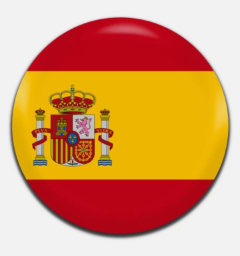
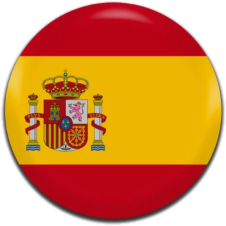
Nuevo estilo de competición con los personajes de fondo y escudos oficiales
- Personajes de cada jugador como fondos transparentes en podio, tabla, plantilla, fichas y comparador
- Japón con acento azul Blue Lock
- Escudos oficiales en PNG transparente para los 11 equipos (Japón con el de la JFA)
- Cambio de tema animado y transiciones suaves

diff --git a/index.html b/index.html
@@ -517,6 +517,87 @@ body.arch #aviso,body.arch #next,body.arch #ins,body.arch .s2,body.arch #don{dis
 .ftl{display:flex;flex-wrap:wrap;justify-content:center;gap:8px 16px;margin-top:10px;font:700 14px "Barlow Condensed",sans-serif;text-transform:uppercase;letter-spacing:.08em}
 .ftl a,.ftl button{color:var(--acc);background:none;border:0;padding:0;cursor:pointer;font:inherit;text-transform:inherit;letter-spacing:inherit;text-decoration:none}
 .ftl span{color:var(--mute)}
+
+/* ===== v7: estilo de competición. Los personajes de cada jugador como fondos transparentes ===== */
+::selection{background:var(--acc);color:#fff}
+.art{position:relative;isolation:isolate;overflow:hidden}
+.art::before,.art::after{content:"";position:absolute;inset:0;z-index:-1;pointer-events:none}
+.art::before{background:var(--art,none) center 18%/cover no-repeat;transition:opacity .35s,transform .6s cubic-bezier(.2,.8,.2,1)}
+.art::after{background:linear-gradient(180deg,rgba(9,9,12,0) 30%,rgba(9,9,12,.94) 86%)}
+html[data-tema=claro] .art::after{background:linear-gradient(180deg,rgba(255,255,255,0) 30%,rgba(255,255,255,.95) 86%)}
+/* podio: el personaje ocupa la tarjeta */
+.pod{align-items:stretch}
+.pc.art{justify-content:flex-end;min-height:250px;padding-top:120px}
+.pc.art.p1{min-height:286px}
+.pc.art::before{opacity:.9;background-position:center 8%}
+.pc.art::after{background:linear-gradient(180deg,rgba(9,9,12,0) 38%,rgba(9,9,12,.95) 72%)}
+.pc.art .lg{width:54px;height:35px;border-radius:3px}
+.pc.art.p1 .lg{width:64px;height:41px}
+.pc.art:hover::before{transform:scale(1.05)}
+.pc.art .pn{position:absolute;top:8px;left:10px;font-size:26px;color:#fff;text-shadow:0 2px 8px #000}
+.pc.art.p1 .pn{color:var(--trophy)}
+.pc.art .lg{box-shadow:0 6px 16px -4px rgba(0,0,0,.7)}
+/* tabla: el personaje asoma a la derecha de cada fila */
+.main.art::before{left:auto;width:48%;opacity:.2;background-position:center 22%;-webkit-mask-image:linear-gradient(90deg,transparent,#000 70%);mask-image:linear-gradient(90deg,transparent,#000 70%)}
+.main.art::after{display:none}
+.main.art:hover::before{opacity:.42}
+html[data-tema=claro] .main.art::before{opacity:.16}
+/* jugadores: tarjetas de plantilla */
+#pl{background:none;border:0;box-shadow:none;overflow:visible;display:grid;gap:14px;-webkit-backdrop-filter:none;backdrop-filter:none}
+#pl .pj.art{border:1px solid var(--line);border-left:3px solid var(--acc);border-radius:3px;background:var(--panel);padding:18px 16px 16px;box-shadow:0 20px 40px -28px #000}
+#pl .pj.art::before{left:36%;opacity:.95;background-position:center 15%;-webkit-mask-image:linear-gradient(90deg,transparent,#000 55%),linear-gradient(180deg,#000 45%,transparent 80%);-webkit-mask-composite:source-in;mask-image:linear-gradient(90deg,transparent,#000 55%),linear-gradient(180deg,#000 45%,transparent 80%);mask-composite:intersect}
+#pl .pj.art::after{background:linear-gradient(90deg,var(--panel) 18%,transparent 62%)}
+#pl .pj.art[style] .av{display:none}
+#pl .pj.art .pjh{min-height:96px;align-items:flex-start}
+#pl .pj.art .pnm{font-size:38px;text-shadow:0 2px 12px rgba(0,0,0,.5)}
+#pl .pj.art .bio{max-width:66%;font-size:14px;line-height:1.4;color:var(--mute);display:-webkit-box;-webkit-line-clamp:4;-webkit-box-orient:vertical;overflow:hidden}
+#pl .pj.art .sg{position:relative;background:rgba(0,0,0,.35);border:1px solid var(--line);padding:8px 4px;border-radius:2px}
+html[data-tema=claro] #pl .pj.art .sg{background:rgba(255,255,255,.8)}
+#pl .pj.art:hover::before{transform:scale(1.03)}
+/* ficha: cabecera con el personaje */
+.fh.art{margin:-14px -14px 0;padding:170px 16px 16px;border-bottom:2px solid var(--acc)}
+.fh.art::before{opacity:.95}
+.fh.art .pnm{font-size:36px;text-shadow:0 2px 10px rgba(0,0,0,.6)}
+/* comparador: los dos jugadores frente a frente */
+.cmph .tm.art{min-height:190px;justify-content:flex-end;padding:10px 6px;border:1px solid var(--line);border-radius:3px}
+.cmph .tm.art::before{opacity:.9}
+.cmph .bal{font-size:46px}
+/* escudos: los PNG transparentes se ven enteros y sin recuadro blanco */
+.lg.esc,.lg.sm.esc,.lg.xs.esc,.lg.xl.esc,.pc .lg.esc,.pc.p1 .lg.esc,.mc .lg.esc,.main .lg.esc,.bm .lg.esc,.dq button .lg.esc{object-fit:contain;background:transparent;border-color:transparent;box-shadow:none;filter:drop-shadow(0 2px 4px rgba(0,0,0,.55))}
+html[data-tema=claro] .lg.esc{filter:drop-shadow(0 1px 2px rgba(0,0,0,.25))}
+.main .lg.esc{width:40px;height:40px}
+.lg.sm.esc{width:34px;height:34px}
+.lg.xs.esc{width:26px;height:24px}
+.mc .lg.esc{height:60px}
+.pc.art .lg.esc{width:52px;height:48px}.pc.art.p1 .lg.esc{width:62px;height:58px}
+.cmph .tm.art .lg.esc{width:48px;height:44px}.cmph .tm.art{padding-top:110px}
+.cmph .tm.art .lg{width:50px;height:32px;border-radius:3px}
+.cmph .tm.art::after{background:linear-gradient(180deg,rgba(9,9,12,0) 38%,rgba(9,9,12,.95) 74%)}
+.cmph .tm.art::before{background-position:center 8%}
+/* Japón: acento azul eléctrico (Blue Lock) */
+[data-art=ej].art{border-color:#2f6bff}
+[data-art=ej].art::after{background:linear-gradient(180deg,rgba(18,56,255,.12) 20%,rgba(4,10,46,.94) 86%)}
+#pl .pj[data-art=ej].art{border-left-color:#38e8ff;box-shadow:0 0 0 1px rgba(47,107,255,.35),0 20px 40px -24px rgba(18,56,255,.7)}
+#pl .pj[data-art=ej].art::after{background:linear-gradient(90deg,var(--panel) 18%,rgba(18,56,255,.12) 62%)}
+.main[data-art=ej].art::before{opacity:.28;filter:saturate(1.3)}
+.art[data-art=ej] .pnm+.tt::after{content:"BLUE LOCK";margin-left:8px;padding:1px 6px;border:1px solid #38e8ff;color:#38e8ff;font:700 11px "Barlow Condensed",sans-serif;letter-spacing:.14em;vertical-align:1px}
+/* barra inferior más limpia */
+nav{background:rgba(9,9,12,.88);-webkit-backdrop-filter:blur(16px) saturate(1.3);backdrop-filter:blur(16px) saturate(1.3)}
+html[data-tema=claro] nav{background:rgba(255,255,255,.9)}
+/* cambio de tema en círculo */
+::view-transition-old(root),::view-transition-new(root){animation:none;mix-blend-mode:normal}
+::view-transition-new(root){animation:vtc .6s cubic-bezier(.4,0,.2,1)}
+@keyframes vtc{from{clip-path:circle(0 at var(--vx,90%) var(--vy,40px))}to{clip-path:circle(150vmax at var(--vx,90%) var(--vy,40px))}}
+/* movimiento discreto */
+@media (prefers-reduced-motion:no-preference){
+html{scroll-behavior:smooth}
+main>section:not([hidden]){animation:secIn .4s cubic-bezier(.2,.8,.2,1) both}
+@keyframes secIn{from{opacity:0;transform:translateY(10px)}to{opacity:1;transform:none}}
+.main,.cta,.lnk,.chips button,nav button{transition:background-color .2s,color .2s,transform .15s}
+.cta:active,.lnk:active,.chips button:active,nav button:active,.pc:active{transform:scale(.97)}
+@supports (animation-timeline:view()){
+.row,.pj,.po,.gl,.fbox,.rc,.bc,.ts,.tl,.mc,.it,.rg,.pm{animation:rv linear both;animation-timeline:view();animation-range:entry 0% entry 55%}
+@keyframes rv{from{opacity:0;transform:translateY(16px)}to{opacity:1;transform:none}}}}
 </style>
 <script>
 /* Tema: auto (el del sistema), claro u oscuro. Va aquí para que no parpadee al cargar */
@@ -651,7 +732,8 @@ function fx(v,d){return(+v).toFixed(d).replace(".",",")}
 function lsGet(n){try{return localStorage.getItem(n)}catch(e){return null}}
 function lsSet(n,v){try{localStorage.setItem(n,v)}catch(e){}}
 function crest(id){var e=(PL[id]||{}).escudo;return okFoto(e)?e:IMG[id]||"logo.svg"}
-function logo(id,c){return '<img class="lg'+(c?" "+c:"")+'" alt="" aria-hidden="true" src="'+crest(id)+'" onerror="this.onerror=null;this.src=IMG.'+id+'">'}
+/* "esc": escudo subido desde el admin (PNG transparente, casi cuadrado): se enseña entero, sin placa */
+function logo(id,c){return '<img class="lg'+(c?" "+c:"")+(okFoto((PL[id]||{}).escudo)?" esc":"")+'" alt="" aria-hidden="true" src="'+crest(id)+'" onerror="this.onerror=null;this.src=IMG.'+id+'">'}
 function nmp(id){return '<span class="nm">'+T[id].t+'</span><span class="tt">'+T[id].p+'</span>'}
 
 /* ---------- datos ---------- */
@@ -730,11 +812,12 @@ function renderTable(L){
 var played=L.some(function(r){return r.pj>0}),pod=$("pod");
 if(played){pod.hidden=false;
 pod.innerHTML=[1,0,2].map(function(i){var r=L[i];
-return '<button class="pc p'+(i+1)+'" data-t="'+r.id+'"><span class="pn">'+(i+1)+'º</span>'+logo(r.id)+'<span><span class="nm">'+T[r.id].t+'</span><span class="tt">'+T[r.id].p+'</span></span><span class="big">'+r.pts+'<small>pts</small></span></button>'}).join("")}
+return '<button class="pc art p'+(i+1)+'" data-t="'+r.id+'"'+artA(r.id)+'><span class="pn">'+(i+1)+'º</span>'+logo(r.id)+'<span><span class="nm">'+T[r.id].t+'</span><span class="tt">'+T[r.id].p+'</span></span><span class="big"><span class="cu">'+r.pts+'</span><small>pts</small></span></button>'}).join("");
+if(nPlayed()){if(!CUT)CUT=performance.now();if(performance.now()-CUT<1200)countUp(pod)}}
 else pod.hidden=true;
 $("tb").innerHTML=L.map(function(r,i){var c=r.dg>0?"up":r.dg<0?"dn":"";
 var ic=(r.now.t==="w"&&r.now.n>=3?"🔥":"")+(mvpCount(r.id)?"⭐":"");
-return '<div class="row'+(i<2?" q":i<6?" qp":"")+'"><button class="main" data-t="'+r.id+'" aria-label="Ficha de '+T[r.id].t+'"><span class="ps">'+(i+1)+'</span><span class="tc">'+logo(r.id)+'<span class="tn"><span class="nm">'+T[r.id].t+(ic?'<span class="ic">'+ic+'</span>':'')+'</span><span class="tt">'+T[r.id].p+'</span></span></span><span class="n">'+r.pj+'</span><span class="n">'+r.pg+'</span><span class="n '+c+'">'+dgt(r)+'</span><span class="n pt">'+r.pts+'</span></button></div>'}).join("");}
+return '<div class="row'+(i<2?" q":i<6?" qp":"")+'"><button class="main art" data-t="'+r.id+'"'+artA(r.id)+' aria-label="Ficha de '+T[r.id].t+'"><span class="ps">'+(i+1)+'</span><span class="tc">'+logo(r.id)+'<span class="tn"><span class="nm">'+T[r.id].t+(ic?'<span class="ic">'+ic+'</span>':'')+'</span><span class="tt">'+T[r.id].p+'</span></span></span><span class="n">'+r.pj+'</span><span class="n">'+r.pg+'</span><span class="n '+c+'">'+dgt(r)+'</span><span class="n pt">'+r.pts+'</span></button></div>'}).join("");}
 var STARS='<svg class="stars" viewBox="0 0 64 64" aria-hidden="true"><g fill="none" stroke="#b4b4bf" stroke-width="2"><circle cx="32" cy="32" r="26"/><circle cx="32" cy="32" r="18" stroke-dasharray="3 4"/></g><g fill="#ffe29a"><path d="M32 18l2.4 5 5.4.6-4 3.7 1.1 5.3-4.9-2.7-4.9 2.7 1.1-5.3-4-3.7 5.4-.6z"/><path d="M18 36l1.4 2.9 3.2.4-2.4 2.2.7 3.1-2.9-1.6-2.9 1.6.7-3.1-2.4-2.2 3.2-.4z"/><path d="M46 36l1.4 2.9 3.2.4-2.4 2.2.7 3.1-2.9-1.6-2.9 1.6.7-3.1-2.4-2.2 3.2-.4z"/></g></svg>';
 function uclWin(t){if(!t||!t.g||t.a==null||t.b==null)return null;if(t.g[0]>t.g[1])return t.a;if(t.g[1]>t.g[0])return t.b;return t.pen===t.a||t.pen===t.b?t.pen:null}
 function renderUCL(L){
@@ -843,7 +926,7 @@ var av=okFoto(d.foto)?'<img class="av" alt="Foto de '+esc(T[r.id].p)+'" src="'+d
 var ap=d.apodo?'<span class="tt">'+esc(d.apodo)+'</span>':'';
 var bio=d.bio?'<p class="bio">'+esc(d.bio).replace(/\n/g,"<br>")+'</p>':'<p class="bio no">Sin presentación todavía.</p>';
 var mb=B.filter(function(b){return b.ids.indexOf(r.id)>=0}).map(function(b){return '<span class="bdg">'+b.e+' '+b.t+'</span>'}).join("")+(mvpCount(r.id)?'<span class="bdg">⭐ MVP ×'+mvpCount(r.id)+'</span>':'')+(condisDe(r.id)?'<span class="bdg cdt">🏆 Premio Condis</span>':'');
-return '<article class="pj"><div class="pjh">'+av+'<div class="pi"><span class="pnm">'+esc(T[r.id].p)+'</span>'+ap+'<span class="tc">'+logo(r.id)+'<span class="nm">'+T[r.id].t+'</span></span></div><span class="rk">'+(i+1)+'º</span></div>'+bio+(mb?'<div>'+mb+'</div>':'')+
+return '<article class="pj art"'+artA(r.id)+'><div class="pjh">'+av+'<div class="pi"><span class="pnm">'+esc(T[r.id].p)+'</span>'+ap+'<span class="tc">'+logo(r.id)+'<span class="nm">'+T[r.id].t+'</span></span></div><span class="rk">'+(i+1)+'º</span></div>'+bio+(mb?'<div>'+mb+'</div>':'')+
 '<div class="sg"><div class="st"><b>'+r.pj+'</b><span>PJ</span></div><div class="st"><b>'+r.pg+'</b><span>G</span></div><div class="st"><b>'+r.pe+'</b><span>E</span></div><div class="st"><b>'+r.pp+'</b><span>P</span></div><div class="st"><b>'+r.gf+'</b><span title="Goles a favor">GF</span></div><div class="st"><b>'+r.gc+'</b><span title="Goles en contra">GC</span></div></div><div class="fm">'+dots(r.f)+'</div><button class="lnk" data-t="'+r.id+'">Ver ficha completa</button></article>'}).join("")}
 function fmt(f){var p=(f||"").split("-");if(p.length!==3)return "";
 return new Date(+p[0],+p[1]-1,+p[2]).toLocaleDateString("es-ES",{day:"numeric",month:"long",year:"numeric"})}
@@ -905,7 +988,10 @@ if(x2.hasAttribute("data-cmp")){closeSheet();cmpA=x2.getAttribute("data-cmp");if
 if(x2.hasAttribute("data-arch")){verTemporada(+x2.getAttribute("data-arch"));return}
 if(x2.hasAttribute("data-ev")){toggleEvo(x2.getAttribute("data-ev"));return}
 if(x2.id==="archx"){volverActual();return}
-if(x2.id==="tema"){TEMA={auto:"claro",claro:"oscuro",oscuro:"auto"}[TEMA]||"auto";lsSet("sl-tema",TEMA);aplicarTema();renderTema();return}}
+if(x2.id==="tema"){TEMA={auto:"claro",claro:"oscuro",oscuro:"auto"}[TEMA]||"auto";lsSet("sl-tema",TEMA);
+var go=function(){aplicarTema();renderTema()},rb2=x2.getBoundingClientRect(),de2=document.documentElement;
+/* el tema nuevo se abre en círculo desde el botón (en los navegadores que lo permiten) */
+if(document.startViewTransition&&!(window.matchMedia&&matchMedia("(prefers-reduced-motion: reduce)").matches)){de2.style.setProperty("--vx",(rb2.left+rb2.width/2)+"px");de2.style.setProperty("--vy",(rb2.top+rb2.height/2)+"px");document.startViewTransition(go)}else go();return}}
 var t=e.target.closest?e.target.closest("[data-t],[data-m]"):null;if(!t)return;
 var inSheet=$("sh").contains(t);
 if(t.hasAttribute("data-t")&&T[t.getAttribute("data-t")])openSheet({type:"t",id:t.getAttribute("data-t")},inSheet);
@@ -916,7 +1002,7 @@ var B=badges(L,agg()).filter(function(b){return b.ids.indexOf(id)>=0});
 var mv=mvpCount(id);
 var ms=allM().filter(function(x){return x.h===id||x.a===id});
 var pl=ms.filter(function(x){return x.v}),nx=ms.filter(function(x){return!x.v})[0];
-var h='<div class="fh">'+logo(id,"xl")+'<div class="pi"><span class="pnm">'+T[id].t+'</span><span class="tt" style="font-size:15px">'+esc(T[id].p)+(d.apodo?' · «'+esc(d.apodo)+'»':'')+'</span></div><span class="rk">'+(pos+1)+'º</span></div>';
+var h='<div class="fh art"'+artA(id)+'>'+logo(id,"xl")+'<div class="pi"><span class="pnm">'+T[id].t+'</span><span class="tt" style="font-size:15px">'+esc(T[id].p)+(d.apodo?' · «'+esc(d.apodo)+'»':'')+'</span></div><span class="rk">'+(pos+1)+'º</span></div>';
 h+='<div class="fbox"><div class="sg s7"><div class="st"><b>'+r.pts+'</b><span>Pts</span></div><div class="st"><b>'+r.pj+'</b><span>PJ</span></div><div class="st"><b>'+r.pg+'</b><span>G</span></div><div class="st"><b>'+r.pe+'</b><span>E</span></div><div class="st"><b>'+r.pp+'</b><span>P</span></div><div class="st"><b>'+r.gf+'</b><span>GF</span></div><div class="st"><b>'+r.gc+'</b><span>GC</span></div></div></div>';
 var E=evo();if(E.n>1)h+='<div class="fbox"><h4>Evolución en la tabla</h4>'+evoSvg(E,[id],true)+'</div>';
 h+='<p style="margin:10px 0 0"><button class="lnk" data-cmp="'+id+'" style="margin:0">Comparar con otro equipo</button></p>';
@@ -1029,6 +1115,14 @@ $("tch").innerHTML=TSUB.map(function(t,i){return '<button data-ts="'+i+'" aria-p
 $("tv").innerHTML=[tvRank,tvPal,tvLidl,tvTem][tsub](L)}
 $("tch").addEventListener("click",function(e){var i=e.target.getAttribute("data-ts");if(i===null)return;tsub=+i;renderTitulos(table())});
 
+/* ---------- personajes: la ilustración de cada jugador como fondo transparente ---------- */
+var CUT=0;
+function artUrl(id){var f=(PL[id]||{}).foto;return okFoto(f)?'url("'+f+'")':""}
+function artA(id){var u=artUrl(id);return ' data-art="'+id+'"'+(u?' style=\'--art:'+u+'\'':'')}
+/* los puntos del podio cuentan hacia arriba al cargar */
+function countUp(box){if(window.matchMedia&&matchMedia("(prefers-reduced-motion: reduce)").matches)return;
+box.querySelectorAll(".cu").forEach(function(el){var to=+el.textContent;
+function st(t){var k=Math.min(1,Math.max(0,(t-CUT)/1200)),e=1-Math.pow(1-k,3);el.textContent=Math.round(to*e);if(k<1)requestAnimationFrame(st)}requestAnimationFrame(st)})}
 /* ---------- evolución: puesto de cada equipo jornada a jornada ---------- */
 var EVC=["var(--acc)","#3d8bff","var(--trophy)","var(--win)"],evoSel=null,EVO=null;
 function evo(){if(EVO)return EVO;var n=0;allM().forEach(function(x){if(x.v&&x.j+1>n)n=x.j+1});
@@ -1078,7 +1172,7 @@ function f(x){return x==null?"–":fx(x,d)+u}
 return '<div class="ms"><div class="l3"><b class="'+(bl?"hi":"")+'">'+f(l)+'</b><span>'+q[0]+'</span><b class="'+(bv?"hi":"")+'">'+f(v)+'</b></div><div class="sbar"><div><i class="'+(bl?"on":"")+'" style="width:'+w(l,v,m)+'%"></i></div><div><i class="'+(bv?"on":"")+'" style="width:'+w(v,l,m)+'%"></i></div></div></div>'}).join("")}
 function o(sel){return ids.map(function(i){return '<option value="'+i+'"'+(i===sel?" selected":"")+'>'+esc(T[i].t)+' · '+esc(T[i].p)+'</option>'}).join("")}
 var h='<div class="cmpsel"><select id="cmpa" aria-label="Primer equipo">'+o(a)+'</select><span>vs</span><select id="cmpb" aria-label="Segundo equipo">'+o(b)+'</select></div>';
-h+='<div class="cmph"><button class="tm" data-t="'+a+'">'+logo(a)+nmp(a)+'</button><span class="bal">'+wa+'-'+wb+'<small>'+(jug.length?'Victorias'+(de?' · '+de+' empate'+(de>1?'s':''):''):'Aún no se han enfrentado')+'</small></span><button class="tm" data-t="'+b+'">'+logo(b)+nmp(b)+'</button></div>';
+h+='<div class="cmph"><button class="tm art" data-t="'+a+'"'+artA(a)+'>'+logo(a)+nmp(a)+'</button><span class="bal">'+wa+'-'+wb+'<small>'+(jug.length?'Victorias'+(de?' · '+de+' empate'+(de>1?'s':''):''):'Aún no se han enfrentado')+'</small></span><button class="tm art" data-t="'+b+'"'+artA(b)+'>'+logo(b)+nmp(b)+'</button></div>';
 h+='<div class="fbox"><h4>Partidos entre ellos</h4>'+legs.map(function(x){
 if(!x.v)return '<div class="hl"><span class="j">J'+(x.j+1)+'</span><span class="o"><span>'+T[x.h].t+' – '+T[x.a].t+'</span></span><span class="s">–</span><span></span></div>';
 var p=persp(x,a);return '<button class="hl" data-m="'+x.key+'"><span class="j">J'+(x.j+1)+'</span><span class="o">'+logo(x.h,"xs")+'<span>'+T[x.h].t+' – '+T[x.a].t+'</span></span><span class="s">'+x.v[0]+'-'+x.v[1]+'</span><span class="wl '+p.r+'">'+{w:"V",d:"E",l:"D"}[p.r]+'</span></button>'}).join("")+
